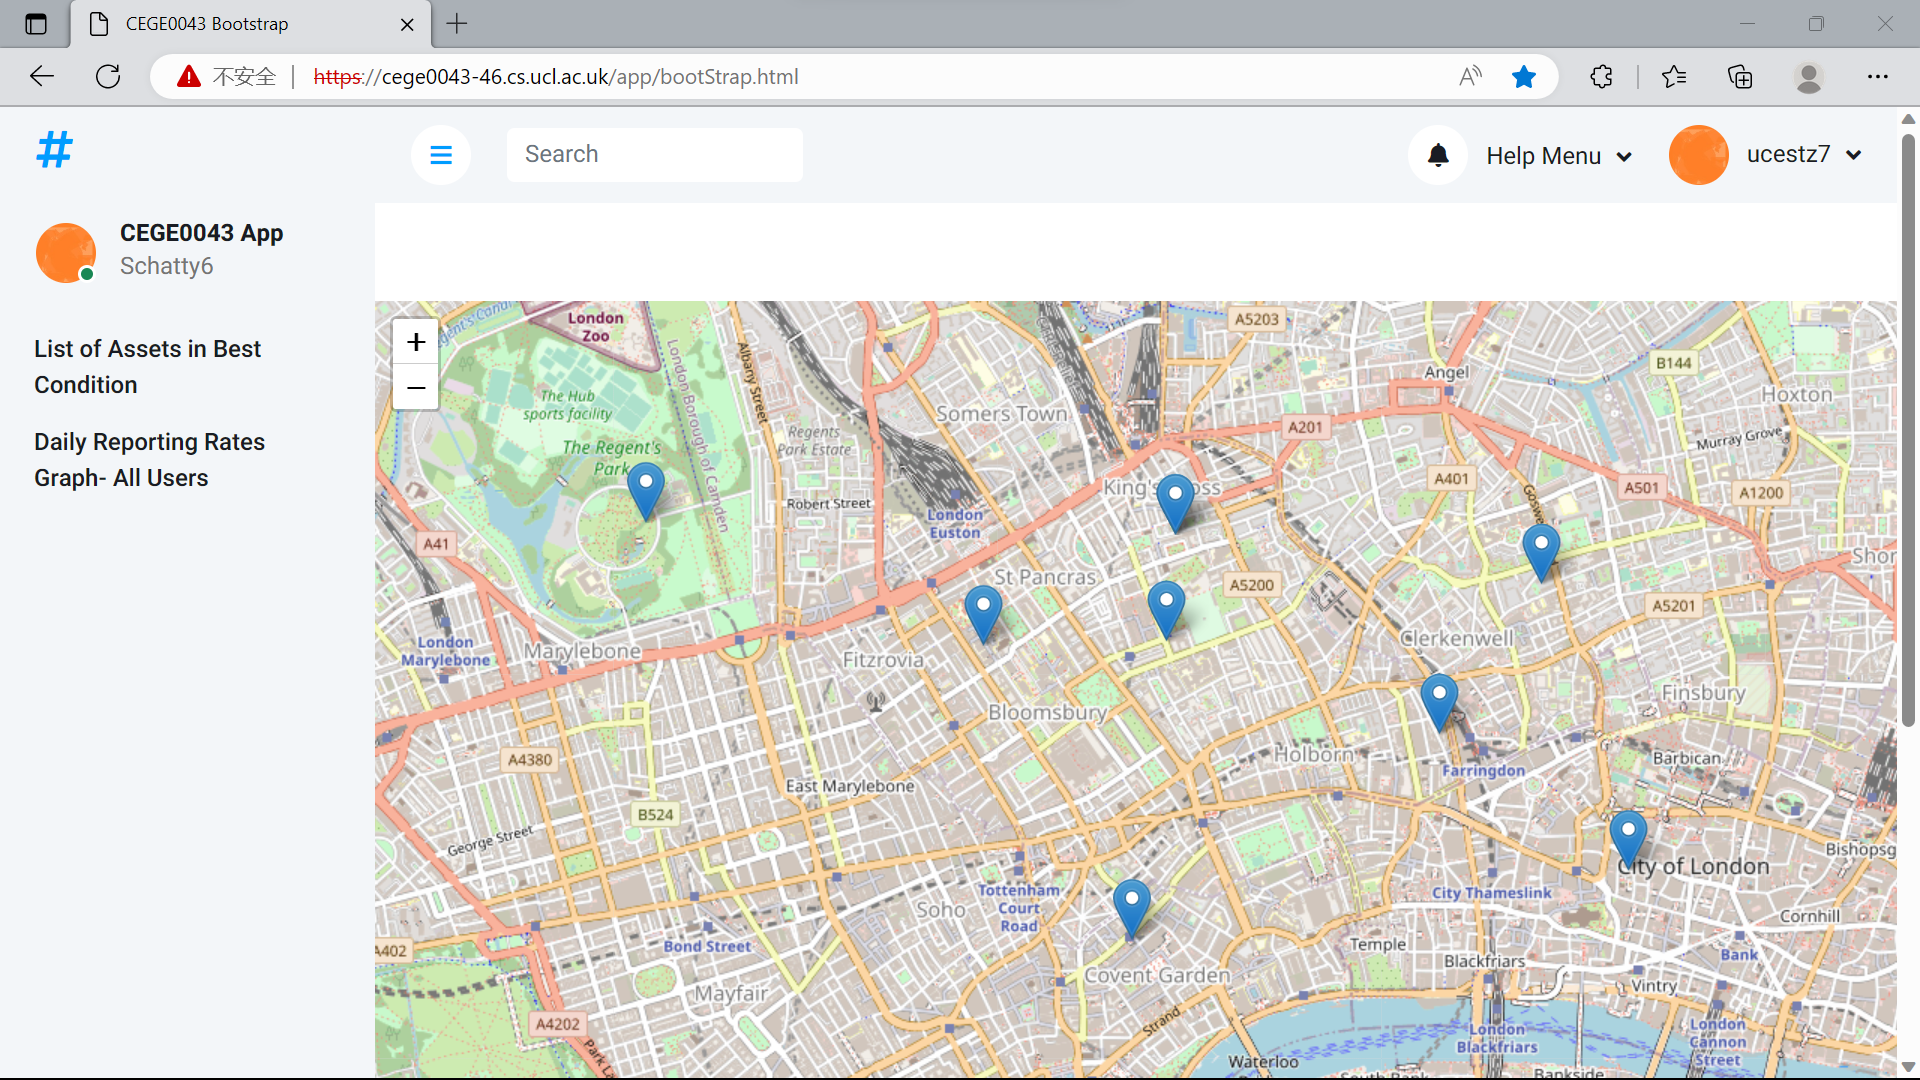
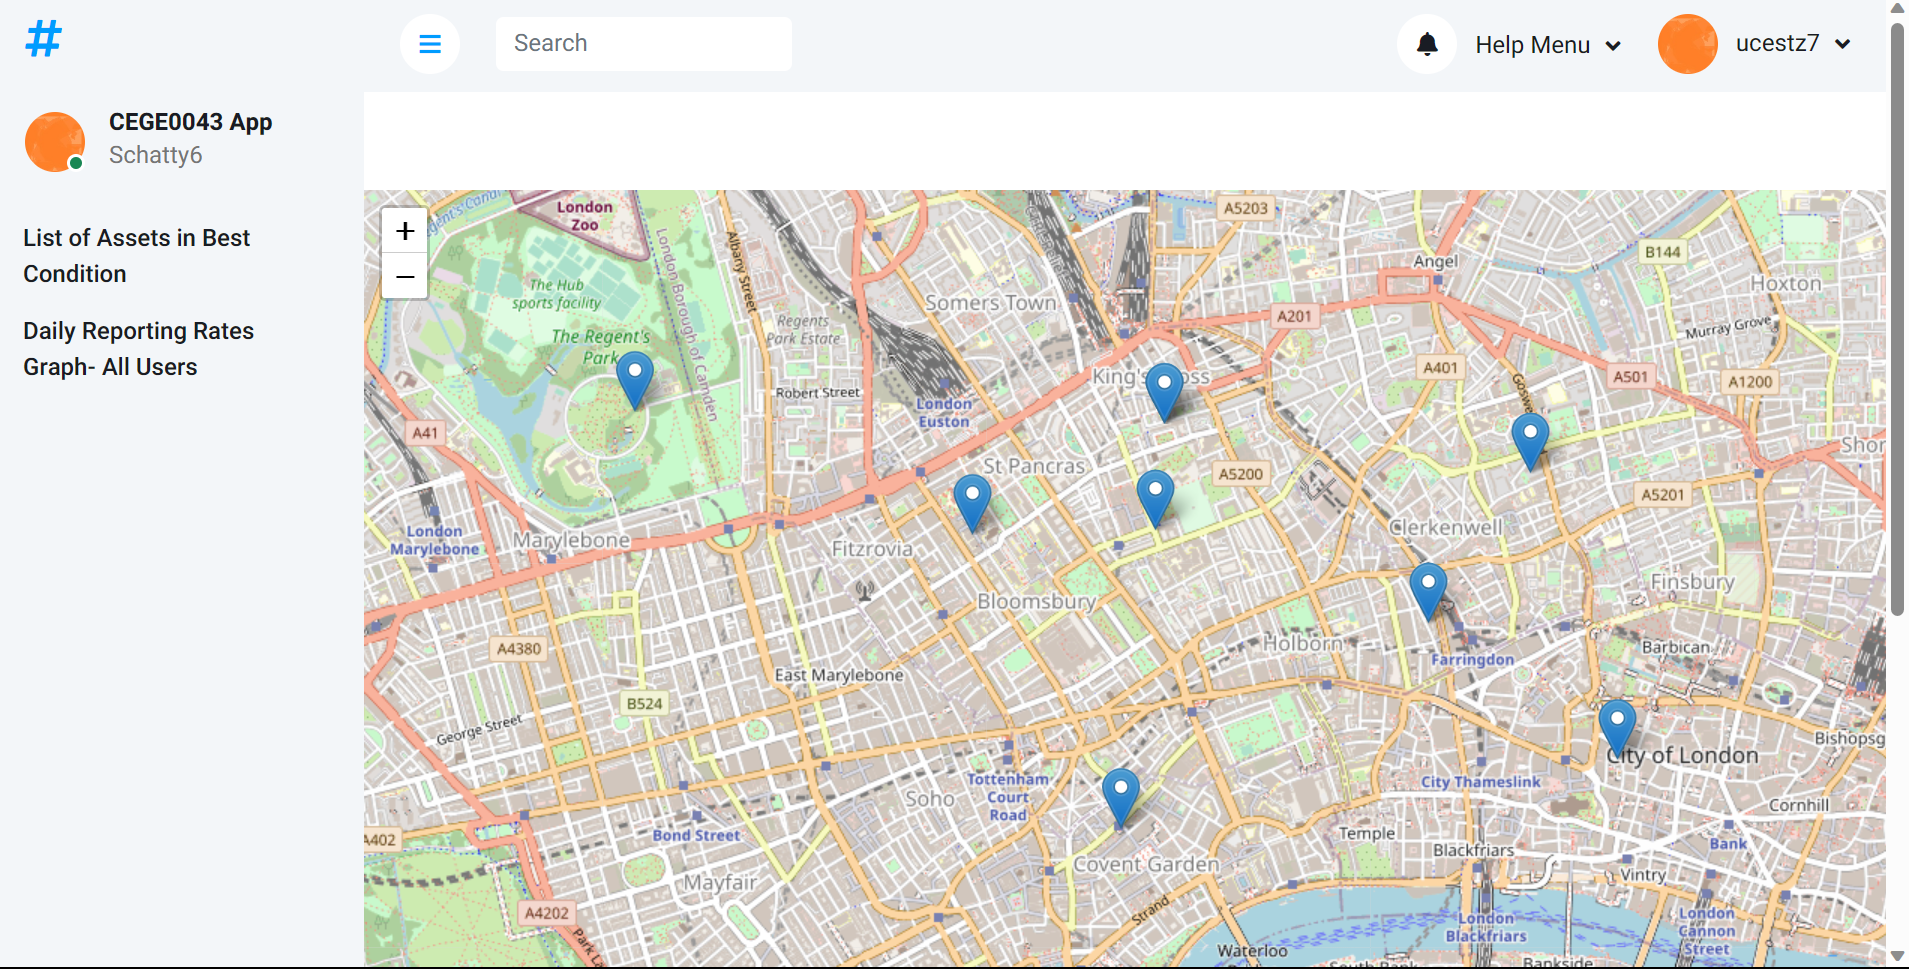
Changed some screenshots to provided clear instruction for user in the user guide. The HTML page was adapted accordingly.

diff --git a/help.html b/help.html
@@ -20,7 +20,7 @@
       height: 30px;
       text-align: center;
       border-radius: 50%;
-      background-color: #4CAF50;
+      background-color: blue;
       color: white;
       font-size: 20px;
       line-height: 30px;
@@ -36,7 +36,8 @@
       margin-top: 20px;
       border: 1px solid #ccc;
       box-shadow: 1px 1px 3px #ccc;
-    }
+      
+    }    
   </style>
 </head>
 
@@ -68,10 +69,12 @@
     <div>
       <div class="step-number">3</div>
       To create your own asset point, explore the map and click on the location you want. A pop-up form will appear
-      for you to fill in. Please note that both<b> Asset Name</b> and <b>Installation Date</b>  are compulsory fields. If you leave
-      them blank, a reminder message will pop up. Simply close them and refill the form.
-      <img src="img/popup1.png" alt="Screenshot of popup" class="screenshot">
-      <img src="img/popup2.png" alt="Screenshot of popup" class="screenshot">
+      for you to fill in. 
+      <img src="img/assetform.PNG" alt="Screenshot of popup" class="screenshot">
+      Please note that both<b> Asset Name</b> and <b>Installation Date</b>  are compulsory fields. If you leave
+      them blank, a reminder message will pop up. Simply click on OK to close them and refill the form.
+      <img src="img/popup1.PNG" alt="Screenshot of popup" class="screenshot">
+      <img src="img/popup2.PNG" alt="Screenshot of popup" class="screenshot">
 
       <br><b>Important: The name you choose for your asset must be unique. If the name has already been taken, a
         reminder will pop up, and you'll need to choose a different name and refill the form.</b>
@@ -95,14 +98,10 @@
     </div>
     <div>
       <div class="step-number">6</div>
-      If you want to explore more about the asset information, click on the <b>Dashboard (Assets Visulisation)</b> menu in the Help Menu list and you'll be directed to the dashboard page.
+      If you want to explore more about the asset information, click on the <b>Dashboard (Assets Visulisation)</b> menu in the Help Menu list and you'll be directed to the dashboard page, where you can explore asset information in a 3D map via clicking on the bar graph.
       <img src="img/dashboard_menu.png" alt="Screenshot of popup" class="screenshot"> 
-    </div>
-    
-  </ol>
-
-
-  
+    </div>       
+  </ol>  
   </div>
 </body>
 
